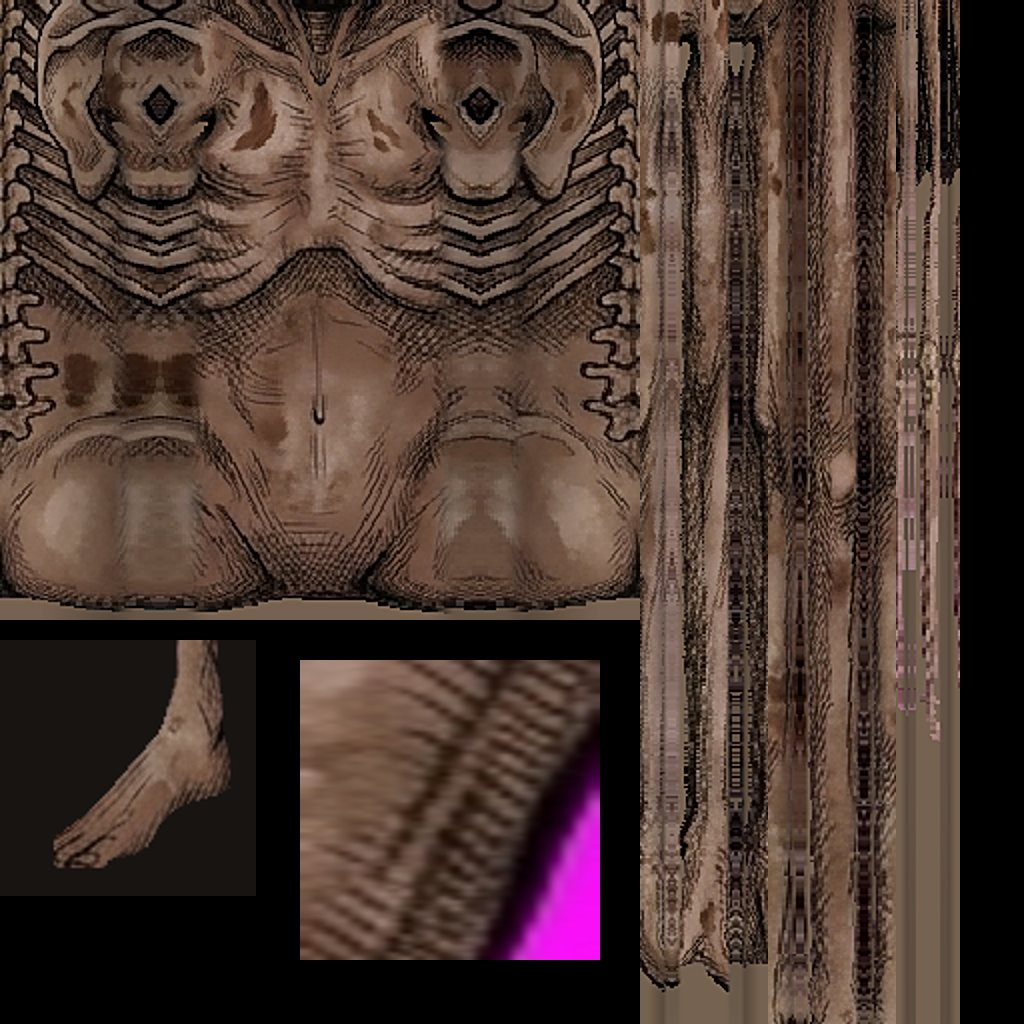
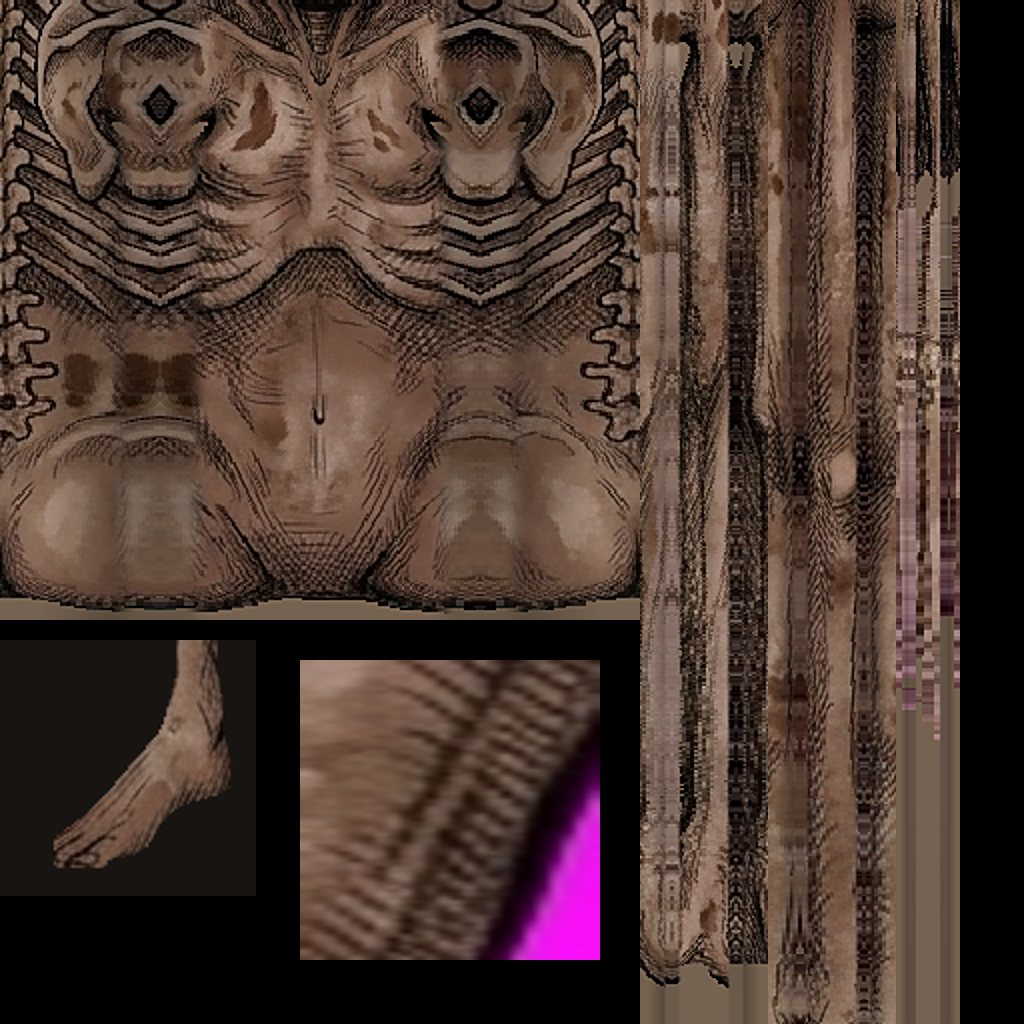
Maw teeth glow fades up close, model tests, tools note
Claude-Session: https://claude.ai/code/session_01Hp3PPRWzBxDPqMYTGtr5h7

Changed region(s): [[0.625, 0.0, 0.9375, 1.0]]

diff --git a/src/horror/creatureMaw.js b/src/horror/creatureMaw.js
@@ -66,8 +66,11 @@ const SKIN_COLOR = 0x2e2522; // 그림이 없을 때 살색
 const HAIR_COLOR = 0x12160f; // 그림이 없을 때 머리털 색
 const TINT = 0x6e7476; // 그림이 손전등 아래서 희게 날아가지 않게 누른다
 const HEAD_TINT = 0x6e7476;
-const TEETH_GLOW = { patrol: 0.3, investigate: 0.45, search: 0.45, chase: 1, stunned: 0.05 };
+const TEETH_GLOW = { patrol: 0.3, investigate: 0.4, search: 0.4, chase: 0.65, stunned: 0.05 };
 const TOOTH_LIGHT = 2.2; // 어둠 속에서 이빨이 뜨는 세기
+const TOOTH_COLOR = 0xe6ddbe;
+const TOOTH_FAR = 3; // 이 칸보다 가까우면 빛을 줄여 그림의 먹선이 보이게 한다
+const TOOTH_NEAR = 0.2; // 코앞에서 남는 빛의 몫
 
 const cell = ([x, y, w, h], u, v) => [(x + u * w) / SHEET, 1 - (y + (1 - v) * h) / SHEET];
 const skinUv = () => cell(SKIN_CELL, 0.5, 0.5);
@@ -217,7 +220,7 @@ export class MawModel extends CreatureBase {
     super(scene, loader);
     const matte = (o) => new THREE.MeshLambertMaterial(o); // 반사가 없어야 그림의 까만 입안과 먹선이 손전등 아래서도 까맣다
     const skin = this.paper('art/horror_maw_head.jpg', SKIN_COLOR, HEAD_TINT, (o) => matte({ ...o, fog: false })); // 어둠 속 이빨 빛이 안개에 묻히지 않게
-    this.glowMap(skin, 'art/horror_maw_glow.jpg');
+    this.glowMap(skin, 'art/horror_maw_glow.jpg', TOOTH_COLOR);
     this.faceMat = skin;
     const body = this.paper('art/horror_maw_body.jpg', SKIN_COLOR, TINT, matte);
     const hair = this.paper('art/horror_maw_hair.webp', HAIR_COLOR, TINT, (o) => new THREE.MeshLambertMaterial({ ...o, alphaTest: 0.3, side: THREE.DoubleSide }));
@@ -347,9 +350,10 @@ export class MawModel extends CreatureBase {
   }
 
   // 눈이 없으니 어둠에서는 이빨이 희미하게 뜬다
-  lightTeeth(s, dt) {
+  lightTeeth(s, dt, player) {
     const goal = TEETH_GLOW[s.mode] ?? TEETH_GLOW.patrol;
     this.glow += (goal - this.glow) * damp(5, dt);
-    this.faceMat.emissiveIntensity = this.glow * TOOTH_LIGHT;
+    const far = clamp(Math.hypot(player.x - s.x, player.y - s.y) / TOOTH_FAR, 0, 1);
+    this.faceMat.emissiveIntensity = this.glow * TOOTH_LIGHT * lerp(TOOTH_NEAR, 1, far);
   }
 }

diff --git a/tests/horrorCreature.test.js b/tests/horrorCreature.test.js
@@ -305,6 +305,34 @@ describe('createCreature', () => {
     expect(a.x).toBeCloseTo(-b.x, 1);
   });
 
+  it('maw opens the painted mouth without moving the skull, and faces the camera when it catches', () => {
+    const model = build('maw');
+    const g = model.face.geometry;
+    const pos = g.attributes.position;
+    const move = g.morphAttributes.position[0];
+    expect(g.morphTargetsRelative).toBe(true);
+    let drop = 0;
+    for (let i = 0; i < pos.count; i++) {
+      drop = Math.max(drop, -move.getY(i));
+      if (pos.getY(i) > 0.32) expect(move.getY(i)).toBe(0);
+    }
+    expect(drop).toBeGreaterThan(0.1);
+    const rush = stand(build('maw'), 'chase', 90);
+    expect(rush.faceTilt).toBeCloseTo(-rush.spine.rotation.x, 5);
+  });
+
+  it('maw hollows the mouth back so the sides are not a flat sticker', () => {
+    const pos = build('maw').face.geometry.attributes.position;
+    let lip = 0;
+    let mouth = 0;
+    for (let i = 0; i < pos.count; i++) {
+      const y = pos.getY(i);
+      if (Math.abs(pos.getX(i)) < 0.02 && y > 0.56 && y < 0.62) lip = Math.max(lip, pos.getZ(i));
+      if (Math.abs(pos.getX(i)) < 0.02 && Math.abs(y - 0.4) < 0.08) mouth = Math.max(mouth, pos.getZ(i));
+    }
+    expect(lip - mouth).toBeGreaterThan(0.1);
+  });
+
   it('maw has no eyes and never looks at the player', () => {
     const rest = vi.spyOn(Math, 'random').mockReturnValue(0.5);
     const a = build('maw');

diff --git a/src/horror/creatureBase.js b/src/horror/creatureBase.js
@@ -51,8 +51,8 @@ export class CreatureBase {
   }
 
   // 흑백 그림의 밝은 곳만 어둠에서 뜬다. 그림을 못 받으면 뜨는 빛만 없다
-  glowMap(m, url) {
-    m.emissive = new THREE.Color(0xffffff);
+  glowMap(m, url, color = 0xffffff) {
+    m.emissive = new THREE.Color(color);
     m.emissiveMap = this.picture(url, () => {
       m.emissiveMap = null;
       m.emissive.setHex(0);

diff --git a/tools/make_maw_art.py b/tools/make_maw_art.py
@@ -204,7 +204,7 @@ def limb_strip(rgb_f, rgb_b, points, cell, m, name):
     sb, hb = straighten(cover_bg(rgb_b, mask_b, BODY_TONE), mask_b, points, rows, width)
     ids = np.arange(rows)
     tone = side_tone(sf, ids, hf, width // 2, 2, 0.75)
-    out = wrap(ids, ids, hf, hb, sf, sb, width // 2, width // 2, cw // 2, FRONT_LIMB, 1, tone)
+    out = wrap(ids, ids, hf, hb, sf, sb, width // 2, width // 2, cw // 2, FRONT_LIMB, 3, tone)
     length = np.hypot(*np.diff(polyline(points, rows), axis=0).T).sum()
     print(name, 'length m', round(length * m, 3), 'radius m along limb', [round(float(hf[i] * m), 3) for i in np.linspace(0, rows - 1, 9).astype(int)])
     return up(out)

diff --git a/tools/README.md b/tools/README.md
@@ -33,4 +33,5 @@ browser-harness 호출: `BU_NAME=<고유이름> BU_CDP_URL=http://localhost:<포
 - `make_pose_sheets.py`: 4x2 그림에서 원하는 칸만 골라 걷기 시트와 한 장짜리 자세 그림을 같은 칸 크기로 만들고, 날아가는 조각(침 등)을 따로 잘라 낸다 (몸에서 떨어진 조각은 자세 그림에서 지움). 예: 침뱉기 `python3 -I tools/make_pose_sheets.py spitter_raw.png 128 public/art/monster_spitter.png=1,7,8,2,2,8,7,1@4x2 public/art/monster_spitter_aim.png=3 public/art/monster_spitter_spit.png=5 public/art/monster_spit.png=box:600,930,820,1090#1@64`
 - `run_horror.py`: 시스템 Chrome 으로 공포 모드를 켜서 확인한다. 기본(키보드)은 걷기, 소리, 괴물 장면, 줍기, 숨기, 펀치, 놀람 장면, 잡힘, 봇의 탈출까지 돌리고, `--touch` 는 진짜 터치 이벤트로, `--play` 는 조작과 탈출만, `--sound` 는 세이노가 가깝고 멀 때 순찰과 추격의 소리 크기만, `--shots` 는 벽 화면만, `--creature` 는 괴물 장면만, `--phone` 은 휴대폰 가로 화면 세 크기의 안내와 쪽지만, `--stalk` 은 진짜 행동 코드로 바라보기와 매복만 확인한다. `npx vite --port 5288 --strictPort` 를 켜 두고 쓴다 (`bot_horror.js` 를 씀)
 - `make_horror_art.py`: Gemini 로 받은 벽과 바닥 그림의 별 표시를 지우고 512 JPG 로 줄이고, 사물함 문 그림은 벽 철판에서 만든다. 세이노 그림은 `make_creature_art.py`
+- `make_gazer_art.py`, `make_maw_art.py`: Gemini 로 받은 눈뜬이와 큰입이의 앞뒤 머리, 전신 그림을 게임용으로 만든다. 큰입이는 머리, 머리털, 이빨 빛, 팔다리를 곧게 편 몸 그림과 안내 화면 얼굴까지 만들고, 3D 몸에 쓸 치수를 찍는다. 둘러 입히는 공용 코드는 `wrap_art.py`
 - `make_ward_art.py`: Gemini 로 받은 호러워드 전신 그림과 초상화를 게임용 머리, 몸, 얼굴 그림으로 만들고, 3D 몸에 쓸 높이별 폭을 찍는다.
